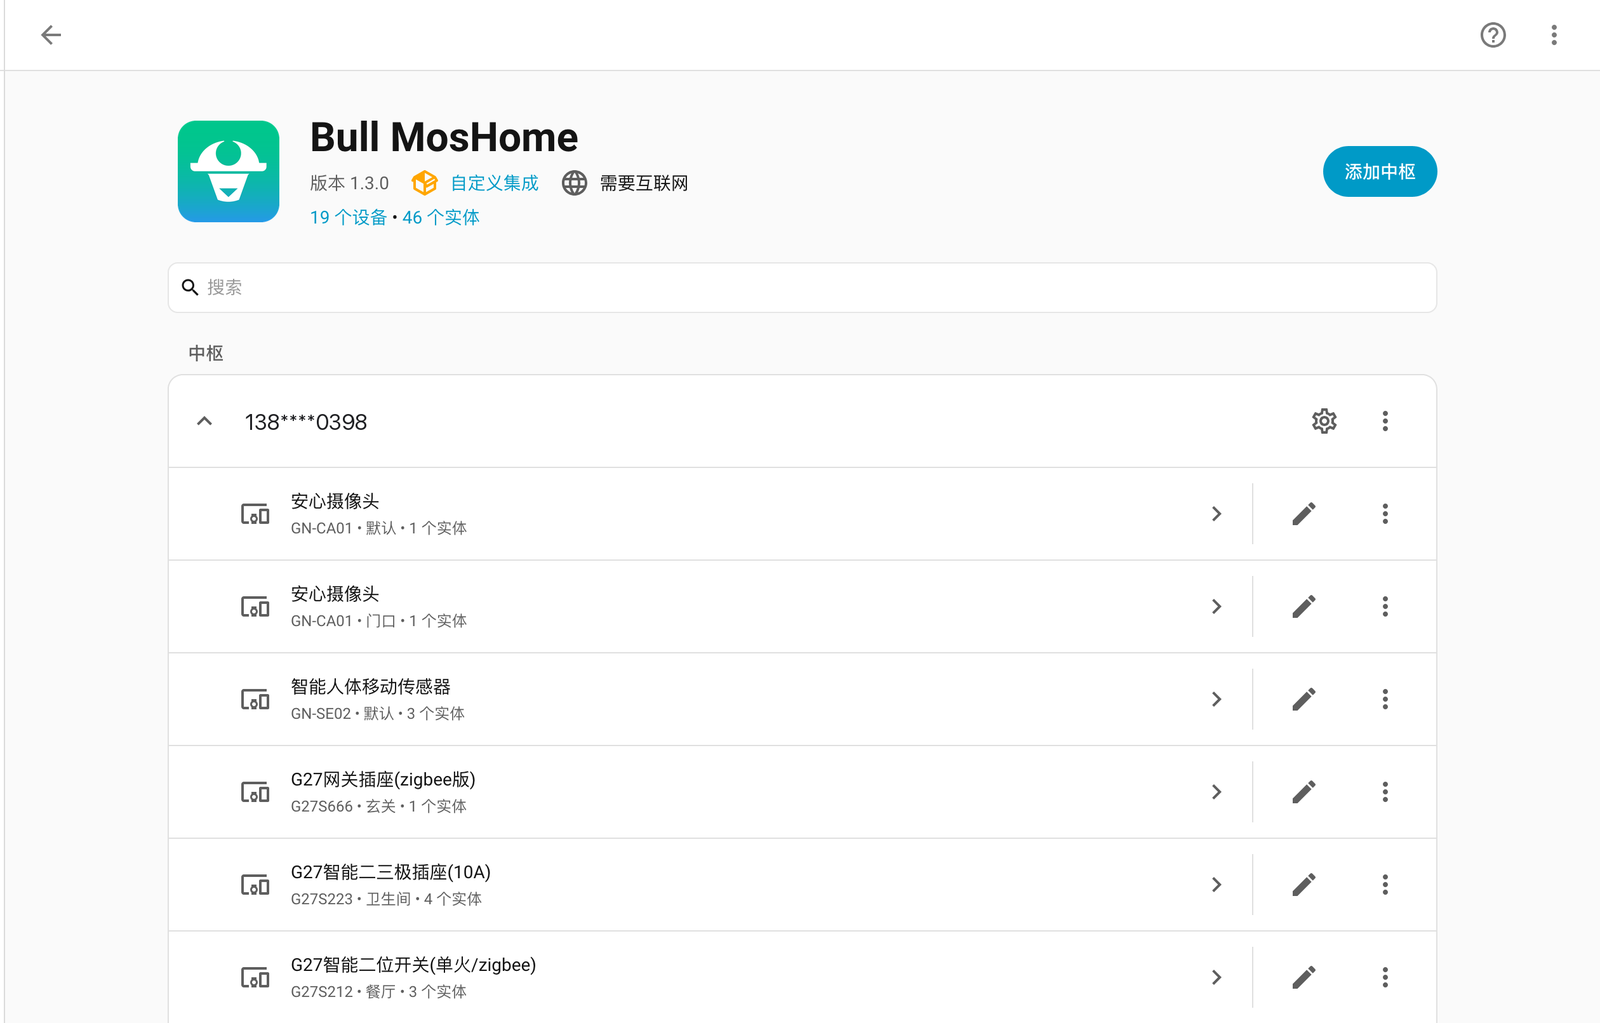
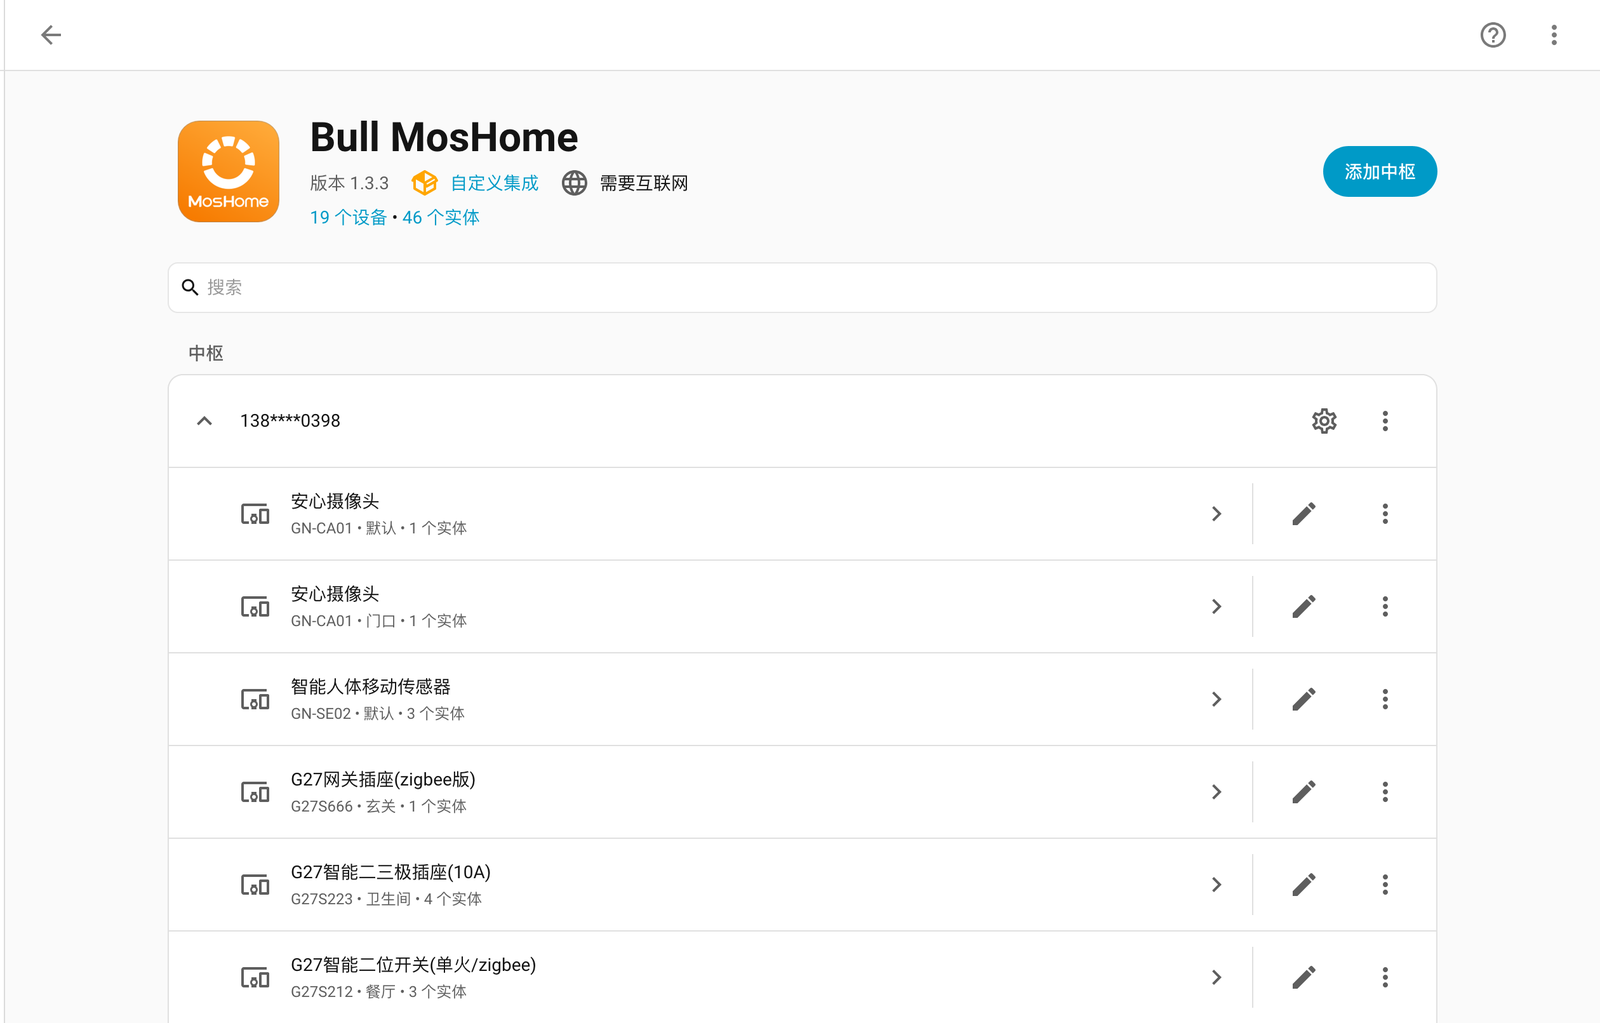
docs: 换成 1.3.3 实拍截图（设备列表 + 多路开关详情），补充家庭上限说明

Changed region(s): [[0.0938, 0.0909, 0.1875, 0.2424], [0.1562, 0.3939, 0.25, 0.4242]]

diff --git a/PROTOCOL.md b/PROTOCOL.md
@@ -270,6 +270,10 @@ body: {"identifier": "SheduleAuth"}
 | **真实设备控制** | `PUT /mos/v1/dc/setDeviceProperty/{iotId}` 对「我的家」G27 三位开关通道 1 下发 `PowerSwitch_1=0`，云端接受（success=true）且回读状态一致 |
 | MQTT 属性回推 | 待设备状态变化时触发（本次操作前后状态一致，未产生状态变化事件） |
 
+> 家庭数量的上限来自云端：`/v2/families` 单次最多返回 50 条，且忽略分页参数，
+> 也没有搜索端点。本次实测账号正好有 50 个家庭、每个家庭都有设备，因此集成在配置流程里
+> 提供家庭多选，刷新时只遍历选中的家庭，而不是每次拉全量。
+
 真实设备列表补充观察到的 identifier（写集成时按需处理）：
 
 | identifier | 出现设备 | 说明 |

diff --git a/README.md b/README.md
@@ -58,6 +58,12 @@
 完整 PID 清单见 [`device_profiles.json`](custom_components/bull/device_profiles.json)，
 新增设备的贡献流程见 [COMPATIBILITY.md](COMPATIBILITY.md)。
 
+多路设备会按 App 内设置的通道昵称逐路建实体，一路一个开关，互不影响：
+
+<p align="center">
+  <img src="docs/images/ha-device-detail.png" alt="多路开关的设备详情：三路通道与在线状态" width="100%">
+</p>
+
 ## 与 hass-iotbull 的关系
 
 本项目的设备覆盖范围（PID 清单）、`bull` 域名与实体唯一 ID 规则沿用自
